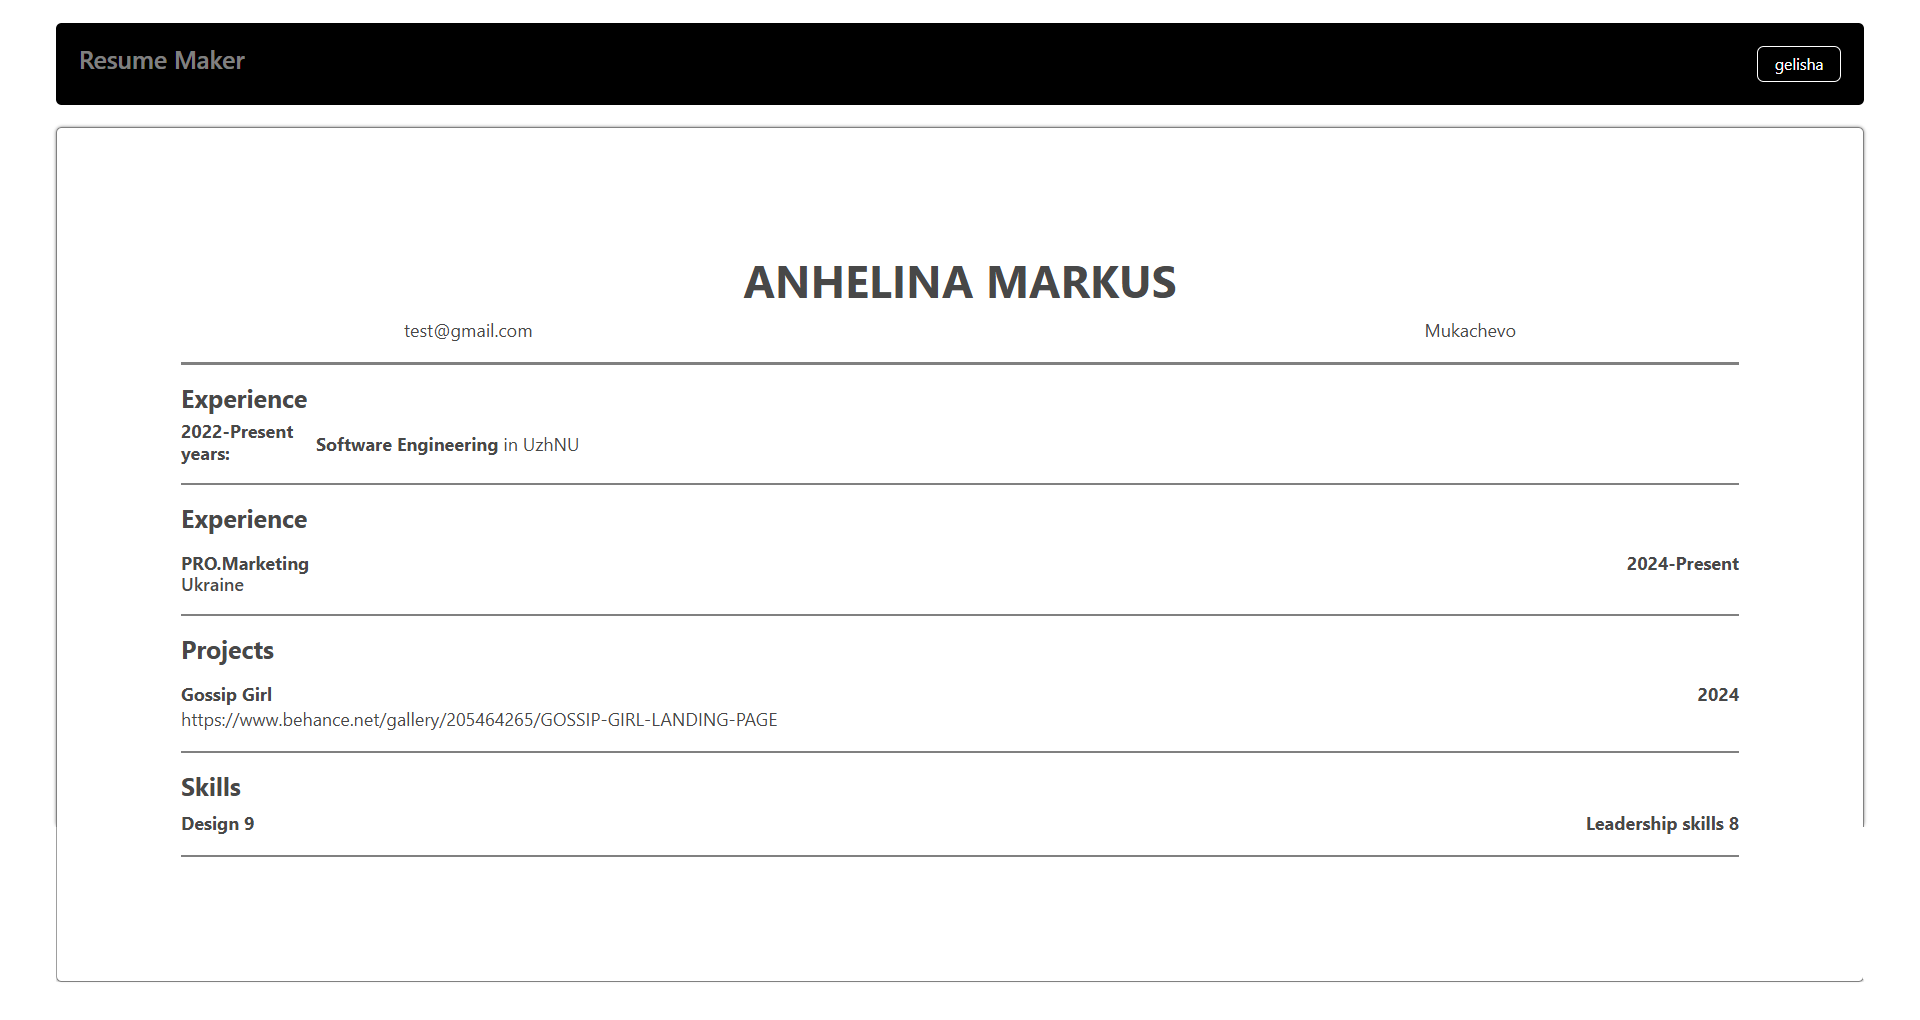
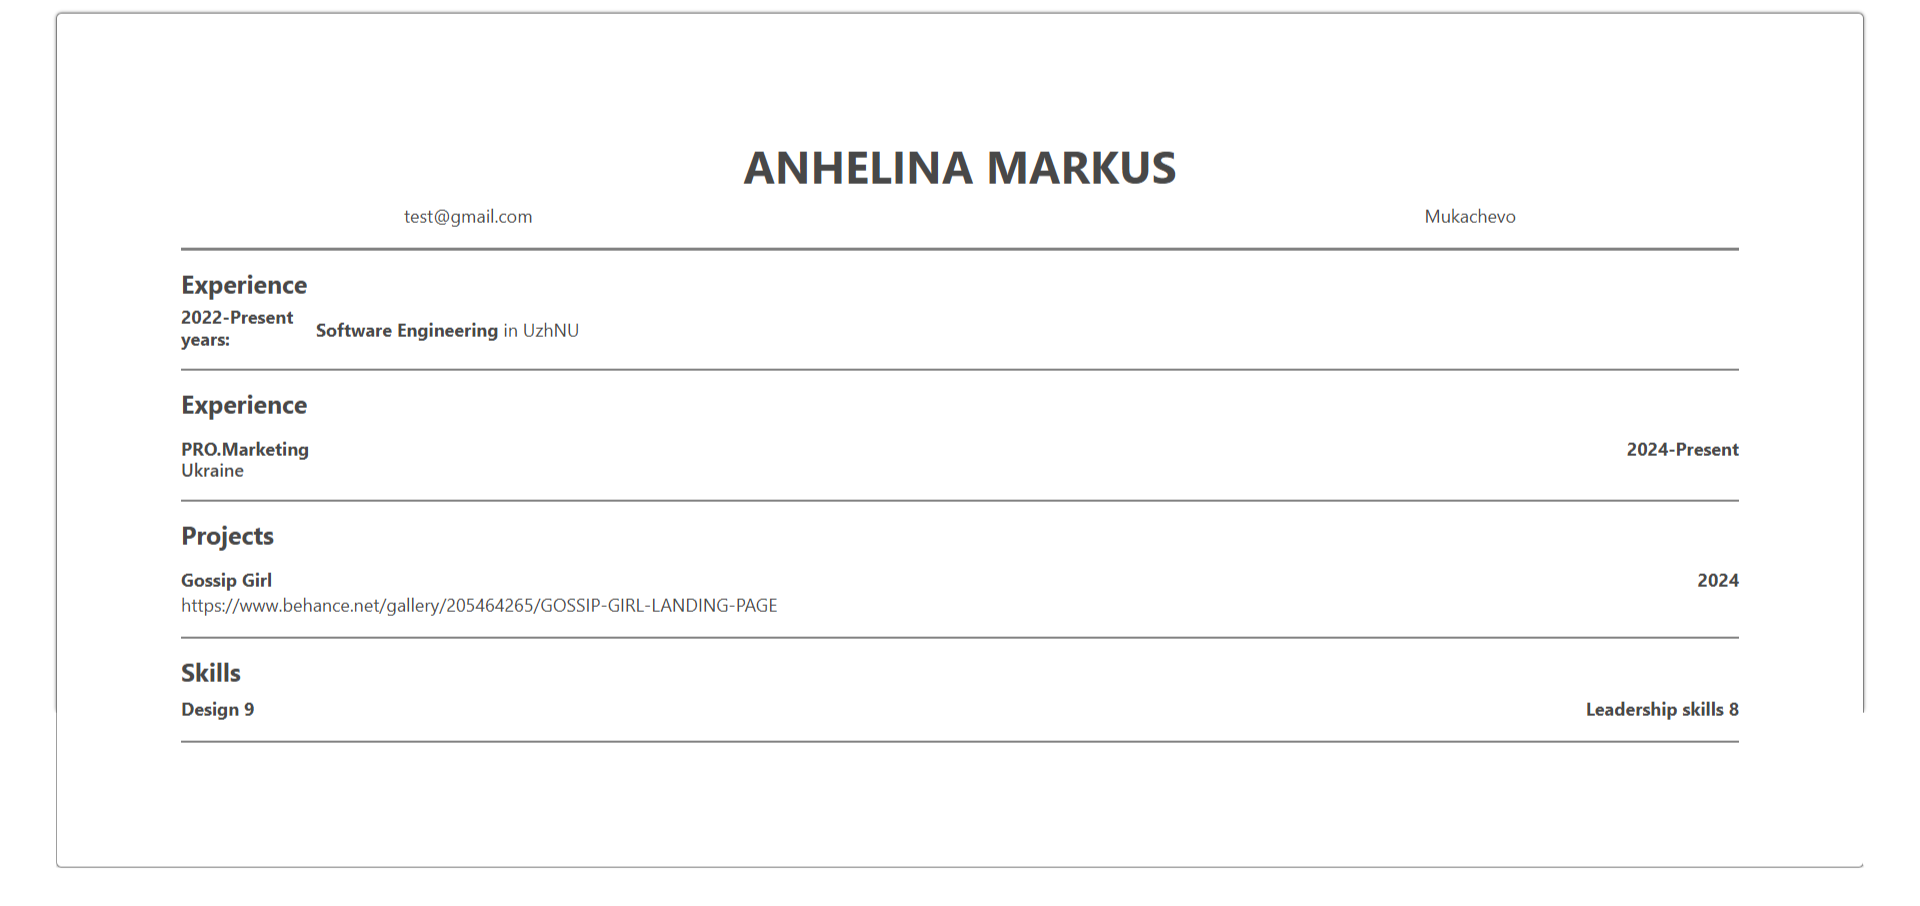
Фікс багів

diff --git a/client/src/pages/templates/Template1.js b/client/src/pages/templates/Template1.js
@@ -11,6 +11,7 @@ const Template1 = () => {
                     <p>{user.email}</p>
                     <p>{user.address}</p>
                     <p>{user.phoneNumber}</p>
+                    <p><a href={user.portfolio} target="_blank">Portfolio</a></p>
                 </div>
             </div>
             <div className="divider mt-2"></div>

diff --git a/client/src/pages/templates/Template2.js b/client/src/pages/templates/Template2.js
@@ -12,6 +12,7 @@ const Template2 = () => {
           <p>{user.email}</p>
           <p>{user.mobileNumber}</p>
           <p>{user.address}</p>
+          <p><a href={user.portfolio} target="_blank">Portfolio</a></p>
         </div>
       </div>
 
